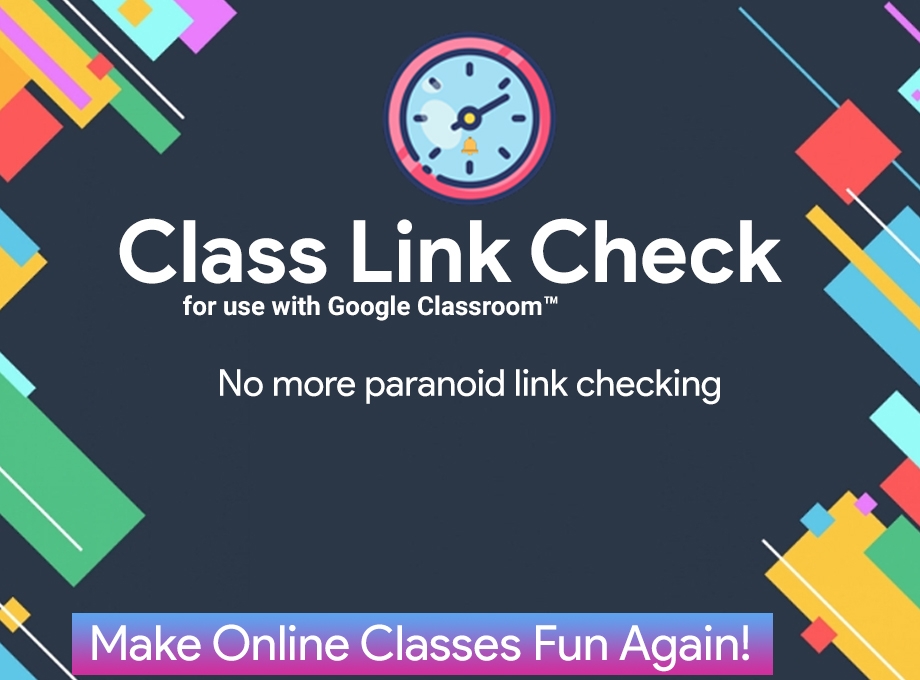
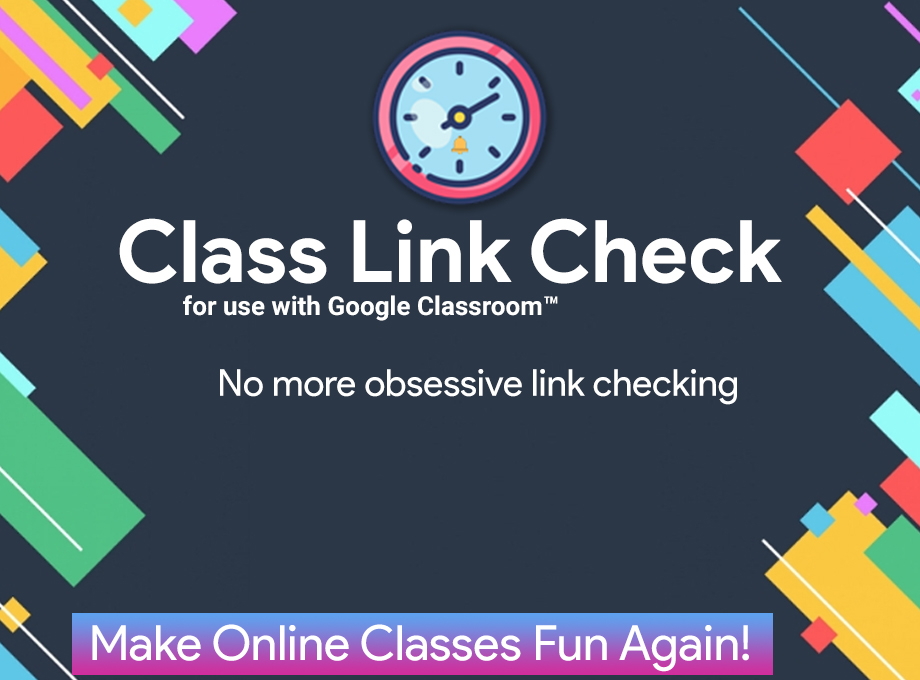
change paranoid to obsessive

Changed region(s): [[0.3957, 0.0309, 0.6087, 0.3088], [0.3957, 0.525, 0.8217, 0.6176]]

diff --git a/index.html b/index.html
@@ -65,7 +65,7 @@
           class="w3-padding-16 w3-animate-right"
           style="font-size: 40px; animation-duration: 3s"
         >
-          <b>No More Paranoid Link Checking</b>
+          <b>No More Obsessive Link Checking</b>
         </h2>
         <h2
           class="w3-padding-16 w3-animate-bottom"
@@ -216,7 +216,8 @@
           I know online classes are harder then they have to be. By creating
           this extension, I hope I'd be able to relieve some of your stress in
           these trying times. If this extension helped you, consider donating to
-          ensure its continued development.
+          ensure its continued development. 95% of donations will be given to
+          charities.
         </p>
         <p>Let's end this pandemic for good.</p>
       </div>

diff --git a/installation/install.html b/installation/install.html
@@ -59,7 +59,7 @@
           class="w3-padding-16 w3-animate-right"
           style="font-size: 40px; animation-duration: 2s"
         >
-          <b>No More Paranoid Link Checking</b>
+          <b>No More Obsessive Link Checking</b>
         </h2>
       </div>
     </header>
@@ -114,7 +114,7 @@
           I know online classes are harder then they have to be. By creating
           this extension, I hope I'd be able to relieve some of your stress in
           this trying times. If this extension helped you, consider donating to
-          ensure it's continued development.
+          ensure it's continued development. 95% of donations will be given to charities.
         </p>
         <p>Let's end this pandemic for good.</p>
       </div>

diff --git a/popup/popup.html b/popup/popup.html
@@ -6,7 +6,7 @@
     <div class="title_and_slogan">
       <br />
       <h1>Class Link Check</h1>
-      <h3>Say goodbye to paranoid link-checking.</h3>
+      <h3>Say goodbye to obsessive link-checking.</h3>
       <br />
     </div>
 
